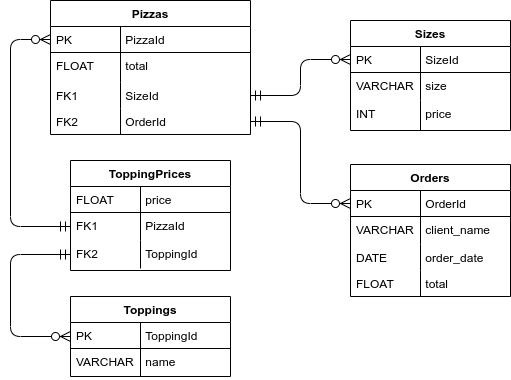
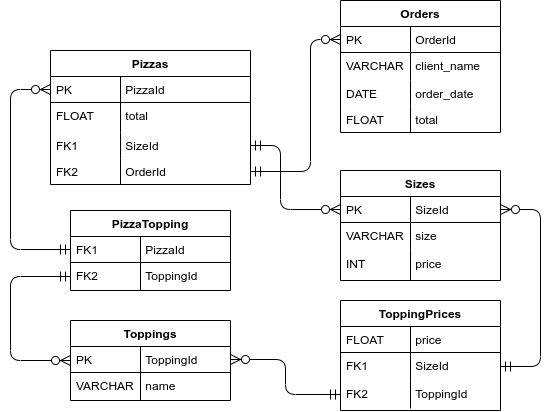
fix schema and add missing table to db class

diff --git a/classes/db_model/SQLiteDB.py b/classes/db_model/SQLiteDB.py
@@ -50,6 +50,7 @@ class SQLiteDB:
 		self.initToppingsTable(cursor)
 		self.initOrdersTable(cursor)
 		self.initPizzasTable(cursor)
+		self.initPizzaTopping(cursor)
 		self.initToppingPricesTable(cursor)
 		
 		db.commit()
@@ -76,17 +77,22 @@ class SQLiteDB:
 						FOREIGN KEY (SizeId) REFERENCES Sizes(SizeId), 
 						FOREIGN KEY (OrderId) REFERENCES Orders(OrderId))''')
 	
+	def initPizzaTopping(self, cursor):
+		"""Crea la tabla PizzaTopping si Store.db no existe"""
+		cursor.execute('''CREATE TABLE IF NOT EXISTS PizzaTopping (PizzaId INTEGER, ToppingId Integer, 
+					   FOREIGN KEY (PizzaId) REFERENCES Pizzas(PizzaId), 
+					   FOREIGN KEY (ToppingId) REFERENCES Toppings(ToppingId))''')
+		
 	def initToppingPricesTable(self, cursor):
 		"""Crea la tabla ToppingPrices si Store.db no existe"""
-		cursor.execute('''CREATE TABLE IF NOT EXISTS ToppingPrices 
-						(price FLOAT NOT NULL, SizeId INTEGER, ToppingId INTEGER, 
+		cursor.execute('''CREATE TABLE IF NOT EXISTS ToppingPrices (price FLOAT NOT NULL, SizeId INTEGER, ToppingId INTEGER, 
 						FOREIGN KEY (SizeId) REFERENCES Pizzas(PizzaId)
 						FOREIGN KEY (ToppingId) REFERENCES Toppings(ToppingId))''')
 		values = self.getToppingPricesRows()
 		cursor.executemany('INSERT INTO ToppingPrices (price, SizeId, ToppingId) VALUES (?,?,?)', values) # insert multiple rows here (for each ToppingId)
 	
 	def getToppingPricesRows(self):
-		"""Retorna una lista de duplas [(SizeId, ToppingId, price)] para el uso de cursor.executemany()"""
+		"""Retorna una lista de tuplas [(price, SizeId, ToppingId)] para el uso de cursor.executemany() en ToppingPricesTable()"""
 		return [(price, size_id.value, topping.value) for topping in Toppings for size_id, price in zip(self.__size_ids, self.__topping_prices[topping.value])]
 	
 	@property
